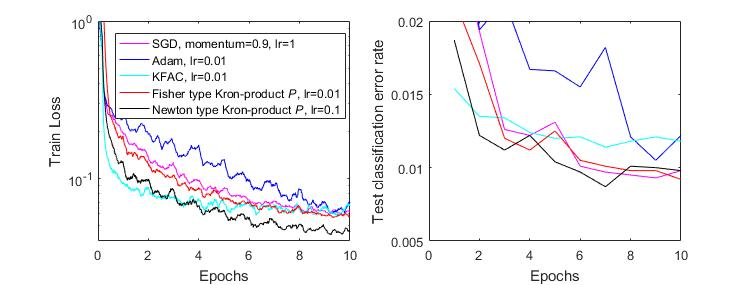
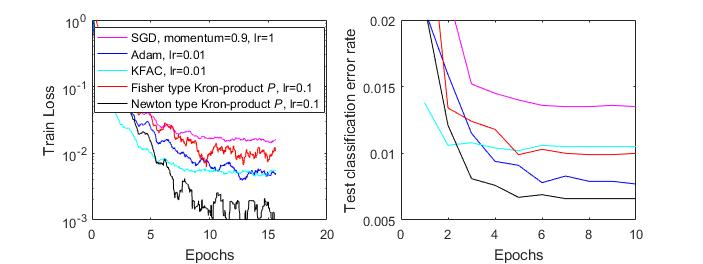
Add files via upload

diff --git a/misc/demo_LeNet5_KFAC.py b/misc/demo_LeNet5_KFAC.py
@@ -3,16 +3,13 @@ import torch.nn as nn
 import torch.nn.functional as F
 import torch.optim as optim
 from torchvision import datasets, transforms
-""" I used Thrandis's KFAC from url 
-https://gist.github.com/Thrandis/9b3f75a130ec6c24a64117b7d9304c3f
-"""
 from kfac import KFAC
 
 train_loader = torch.utils.data.DataLoader(
         datasets.MNIST('../data', train=True, download=True,           
                        transform=transforms.Compose([                       
                                transforms.ToTensor()])),    
-                        batch_size=100, shuffle=True)
+                        batch_size=64, shuffle=True)
 test_loader = torch.utils.data.DataLoader(    
         datasets.MNIST('../data', train=False, transform=transforms.Compose([
                        transforms.ToTensor()])),    
@@ -28,11 +25,11 @@ class LeNet5(nn.Module):
         self.fc3 = nn.Linear(84, 10)
 
     def forward(self, x):
-        x = torch.tanh(F.max_pool2d(self.conv1(x), 2))
-        x = torch.tanh(F.max_pool2d(self.conv2(x), 2))
+        x = F.relu(F.max_pool2d(self.conv1(x), 2))
+        x = F.relu(F.max_pool2d(self.conv2(x), 2))
         x = x.view(-1, 256)
-        x = torch.tanh(self.fc1(x))
-        x = torch.tanh(self.fc2(x))
+        x = F.relu(self.fc1(x))
+        x = F.relu(self.fc2(x))
         x = self.fc3(x)
         return F.log_softmax(x, dim=1)
 
@@ -50,7 +47,7 @@ def test_loss(model, test_loader):
 
 
 model = LeNet5()
-preconditioner = KFAC(model, 0.001)
+preconditioner = KFAC(model, 0.002, alpha=0.05)
 lr0 = 0.01
 optimizer = optim.SGD(model.parameters(), lr=lr0)
 TrainLoss, TestLoss = [], []
@@ -61,17 +58,15 @@ for epoch in range(10):
         output = model(data)
         
         loss = F.nll_loss(output, target)
-        for para in model.parameters():
-            loss += 0.0002*torch.sum(para*para)
             
         TrainLoss.append(loss.item())
         loss.backward()
         preconditioner.step()
         optimizer.step()
-        if batch_idx % 10 == 0:
+        if batch_idx % 100 == 0:
             print('Epoch: {}; batch: {}; train loss: {}'.format(epoch, batch_idx, TrainLoss[-1]))
     
-    lr0 = (0.1**0.1)*lr0
+    lr0 = 0.5*lr0
     optimizer.param_groups[0]['lr'] = lr0
     TestLoss.append(test_loss(model, test_loader))
     print('Epoch: {}; best test loss: {}'.format(epoch, min(TestLoss)))
